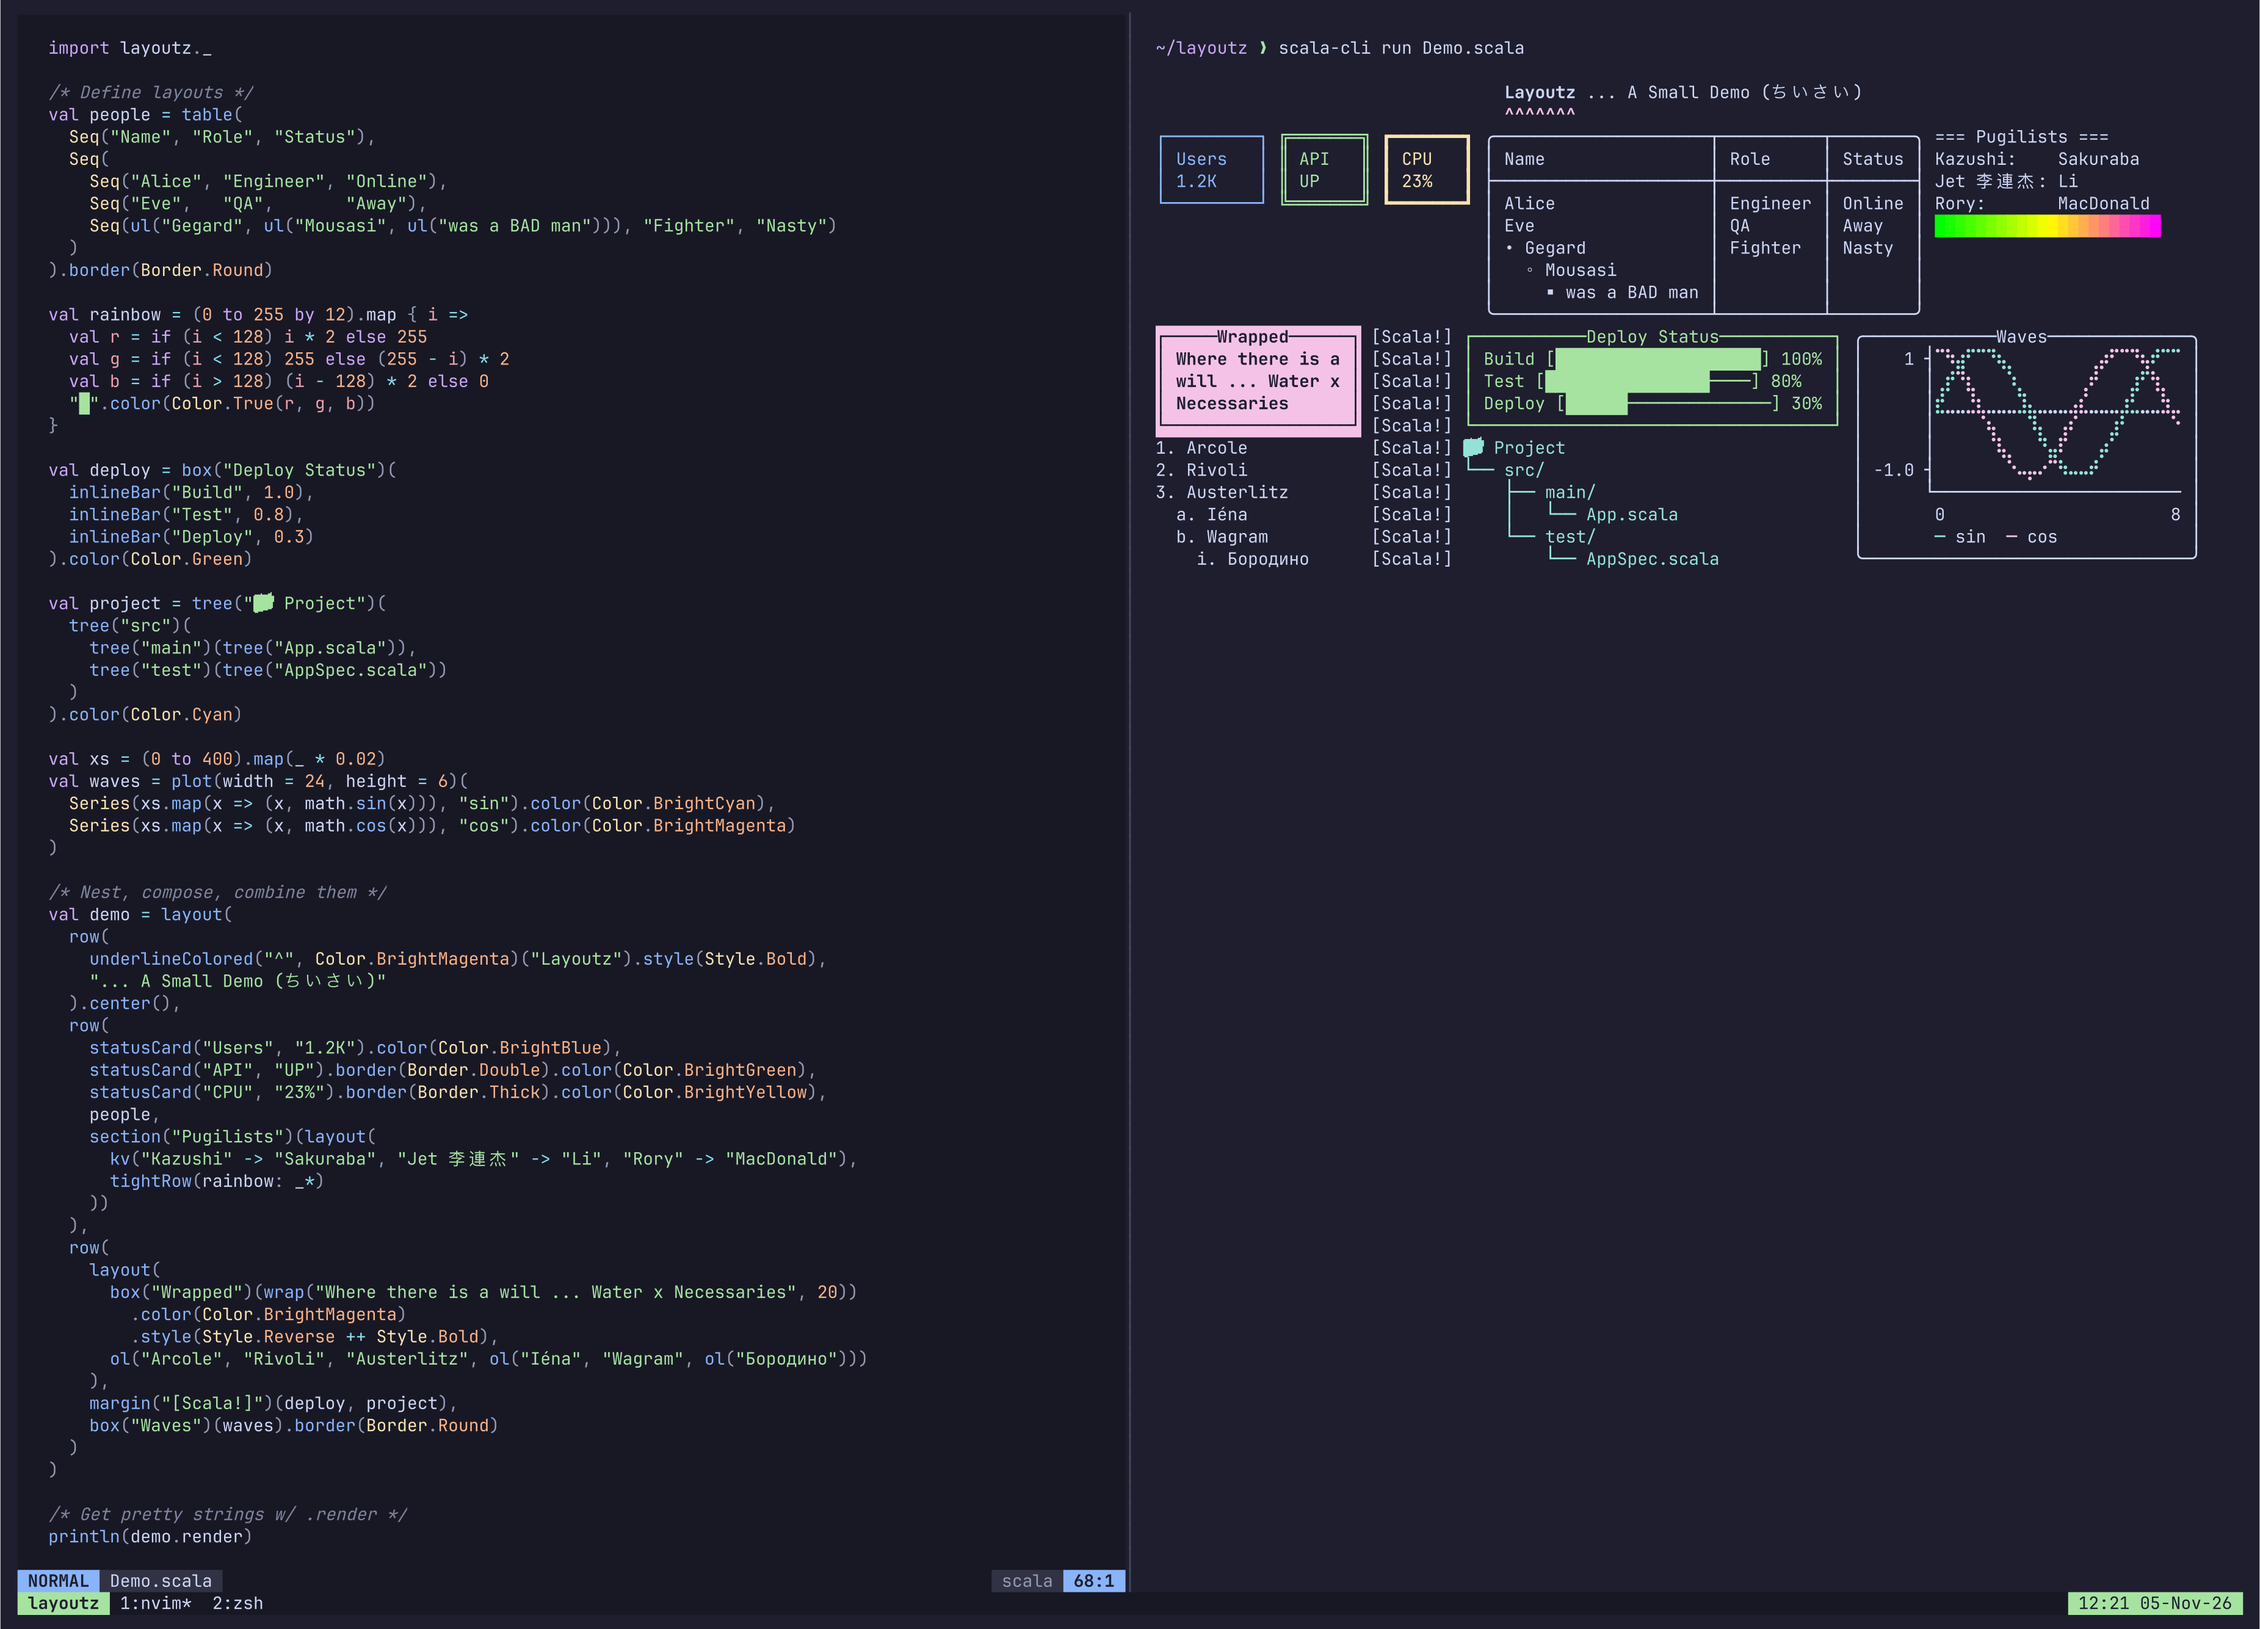
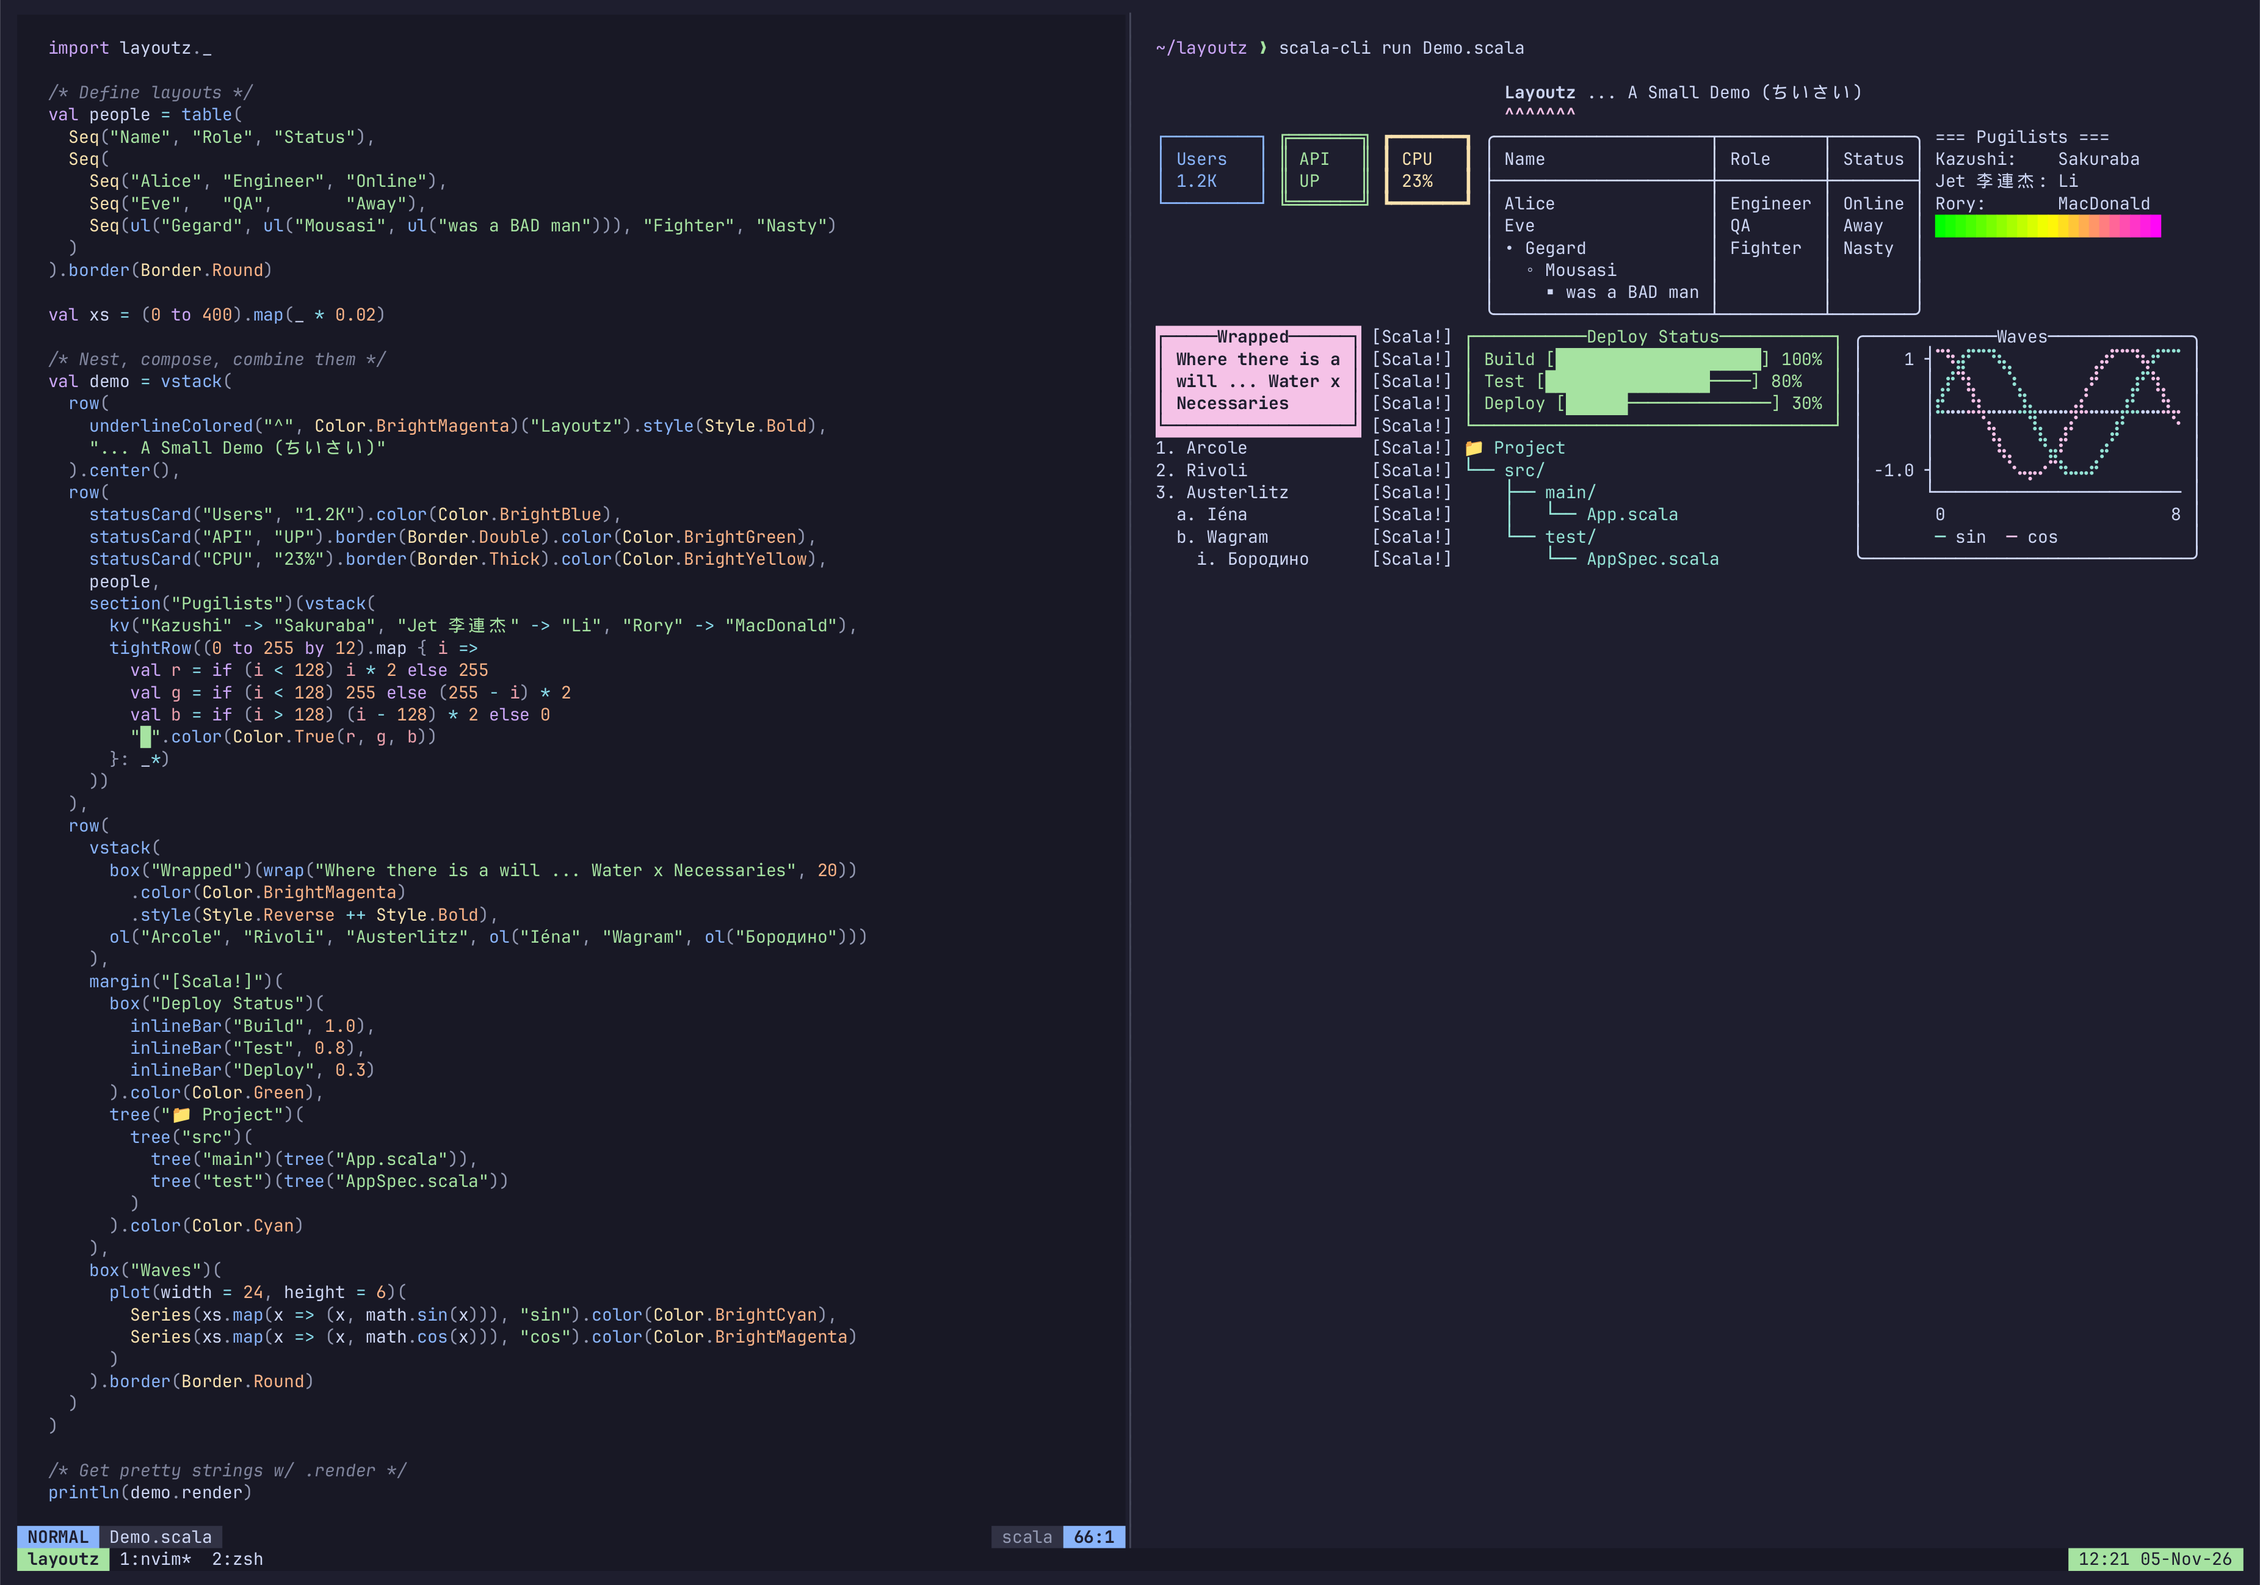
add Haskell vstack + pix

diff --git a/layoutz-hs/README.md b/layoutz-hs/README.md
@@ -194,7 +194,7 @@ BorderNone                    -- No borders
 
 #### Stacking & rows
 ```haskell
-layout ["First", "Second", "Third"]          -- vertical
+vstack ["First", "Second", "Third"]          -- vertical (alias of layout)
 -- First
 -- Second
 -- Third
@@ -630,7 +630,7 @@ plotSparkline   [Double]
 sinPts = [(x, sin (x * 0.15) * 5) | x <- [0 .. 60]]
 cosPts = [(x, cos (x * 0.15) * 5) | x <- [0 .. 60]]
 
-charts = layout
+charts = vstack
   [ row
       [ withBorder BorderRound $ box "plotLine"
           [ plotLine 52 10
@@ -671,7 +671,7 @@ charts = layout
               ["Mon", "Tue", "Wed", "Thu"]
               ["6am", "9am", "12pm", "3pm", "6pm", "9pm"]
           ]
-      , layout
+      , vstack
           [ withBorder BorderRound $ box "chart" [chart [("Web", 10), ("Mobile", 20), ("API", 15)]]
           , withBorder BorderRound $ box "plotSparkline"
               [withColor ColorBrightGreen $ plotSparkline [1, 4, 2, 8, 5, 7, 3, 6, 9, 4, 6, 8, 5, 9]]

diff --git a/README.md b/README.md
@@ -605,7 +605,7 @@ sparkline   Seq[Double]
 val sin = (0 to 60).map(i => (i.toDouble, math.sin(i * 0.15) * 5))
 val cos = (0 to 60).map(i => (i.toDouble, math.cos(i * 0.15) * 5))
 
-val charts = layout(
+val charts = vstack(
   row(
     box("plot")(plot(width = 52, height = 10)(
       Series(sin, "sin(x)").color(Color.BrightCyan),
@@ -645,7 +645,7 @@ val charts = layout(
       ),
       cellWidth = 5
     )).border(Border.Round),
-    layout(
+    vstack(
       box("chart")(chart(("Web", 10.0), ("Mobile", 20.0), ("API", 15.0))).border(Border.Round),
       box("sparkline")(sparkline(Seq(1, 4, 2, 8, 5, 7, 3, 6, 9, 4, 6, 8, 5, 9)).color(Color.BrightGreen)).border(Border.Round)
     )
